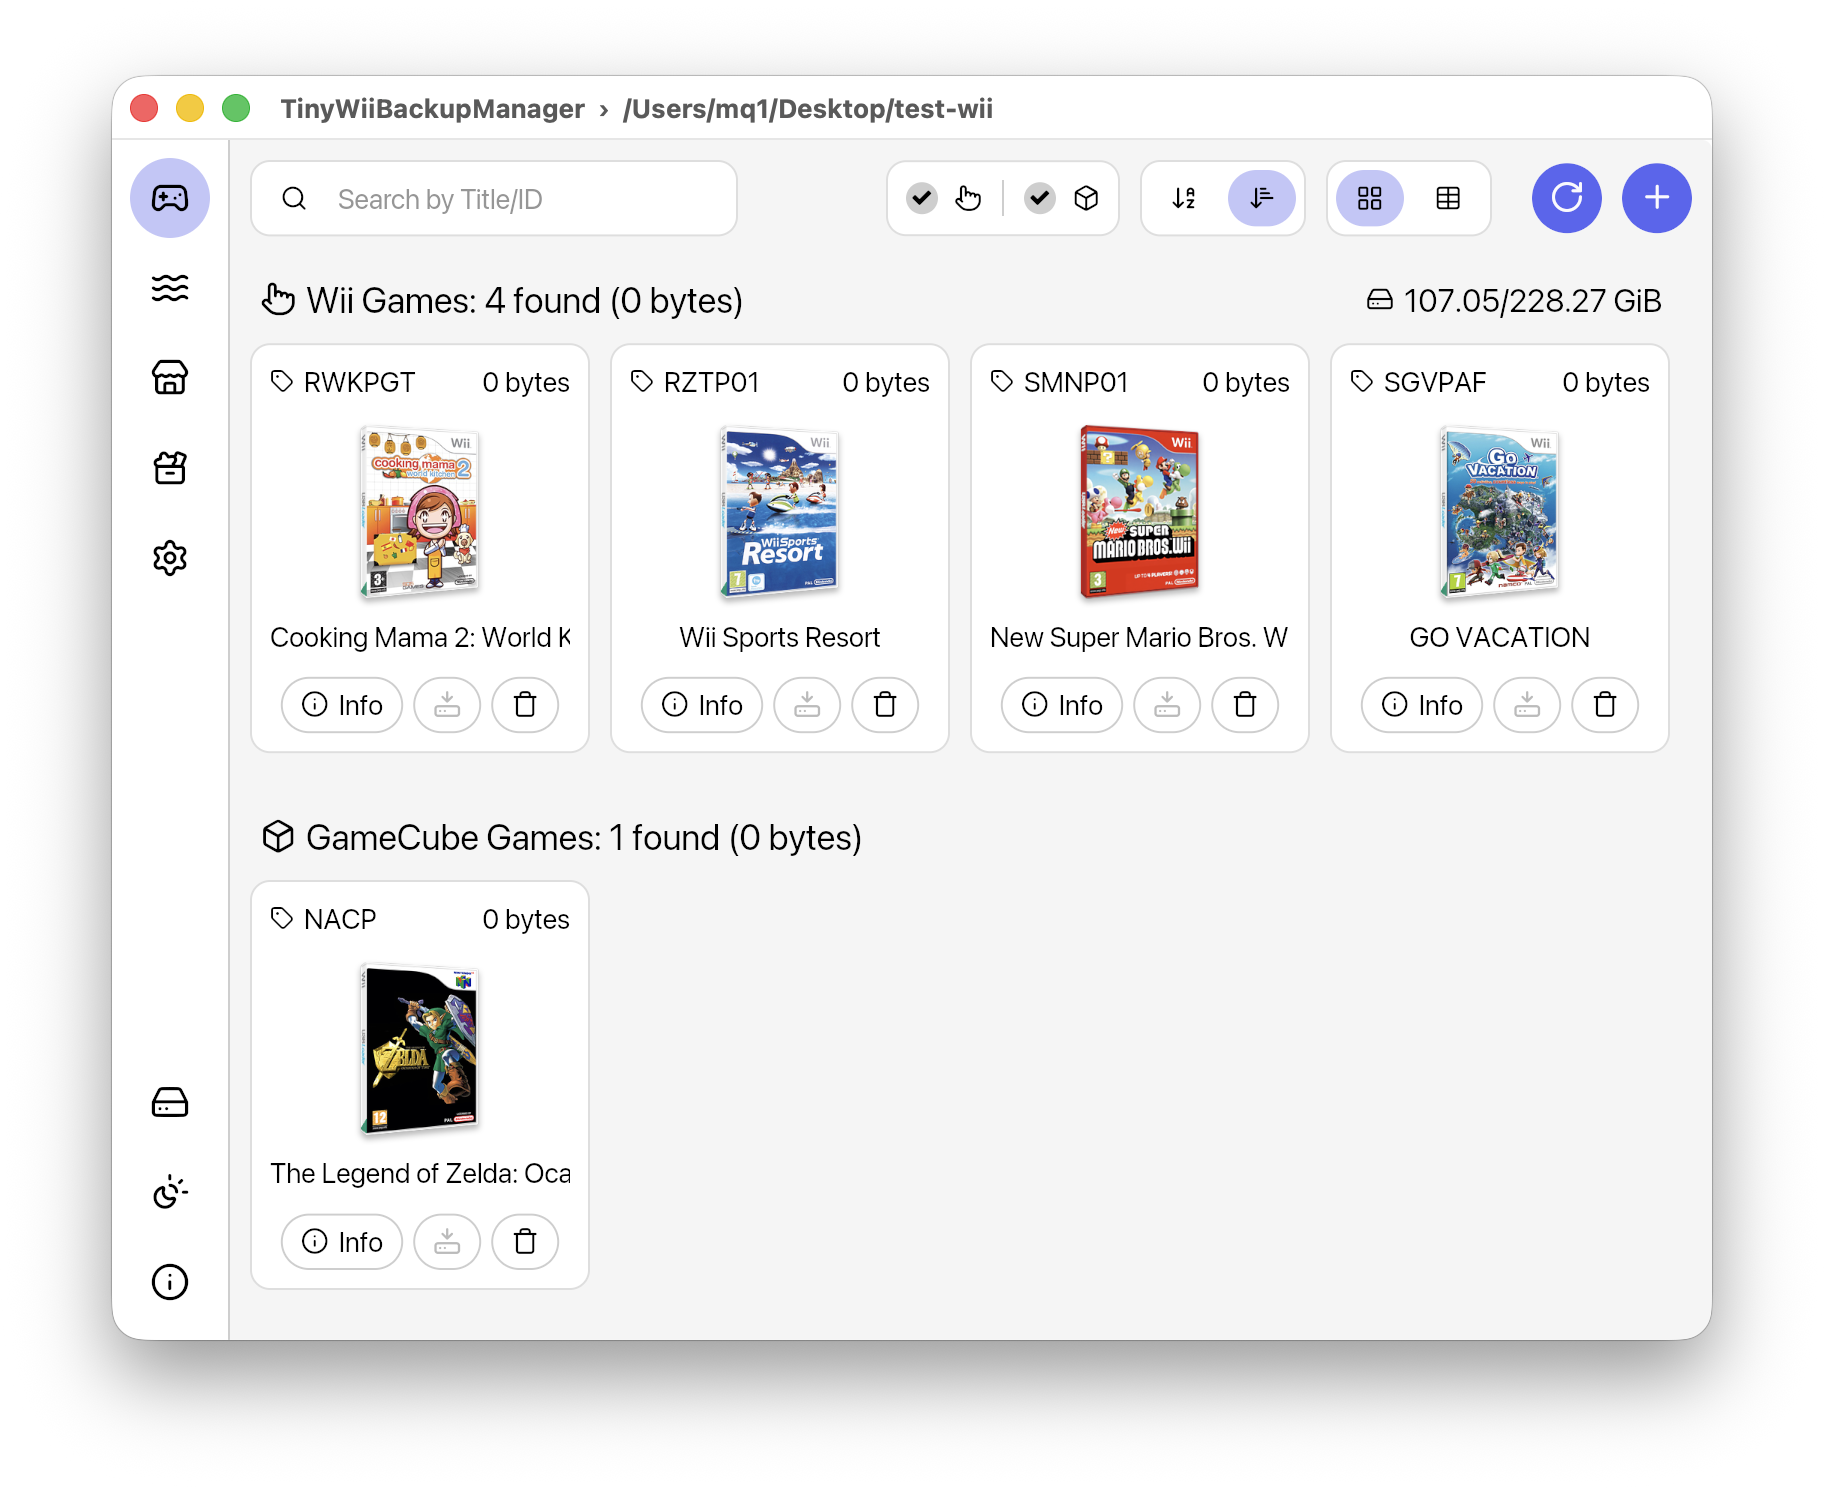
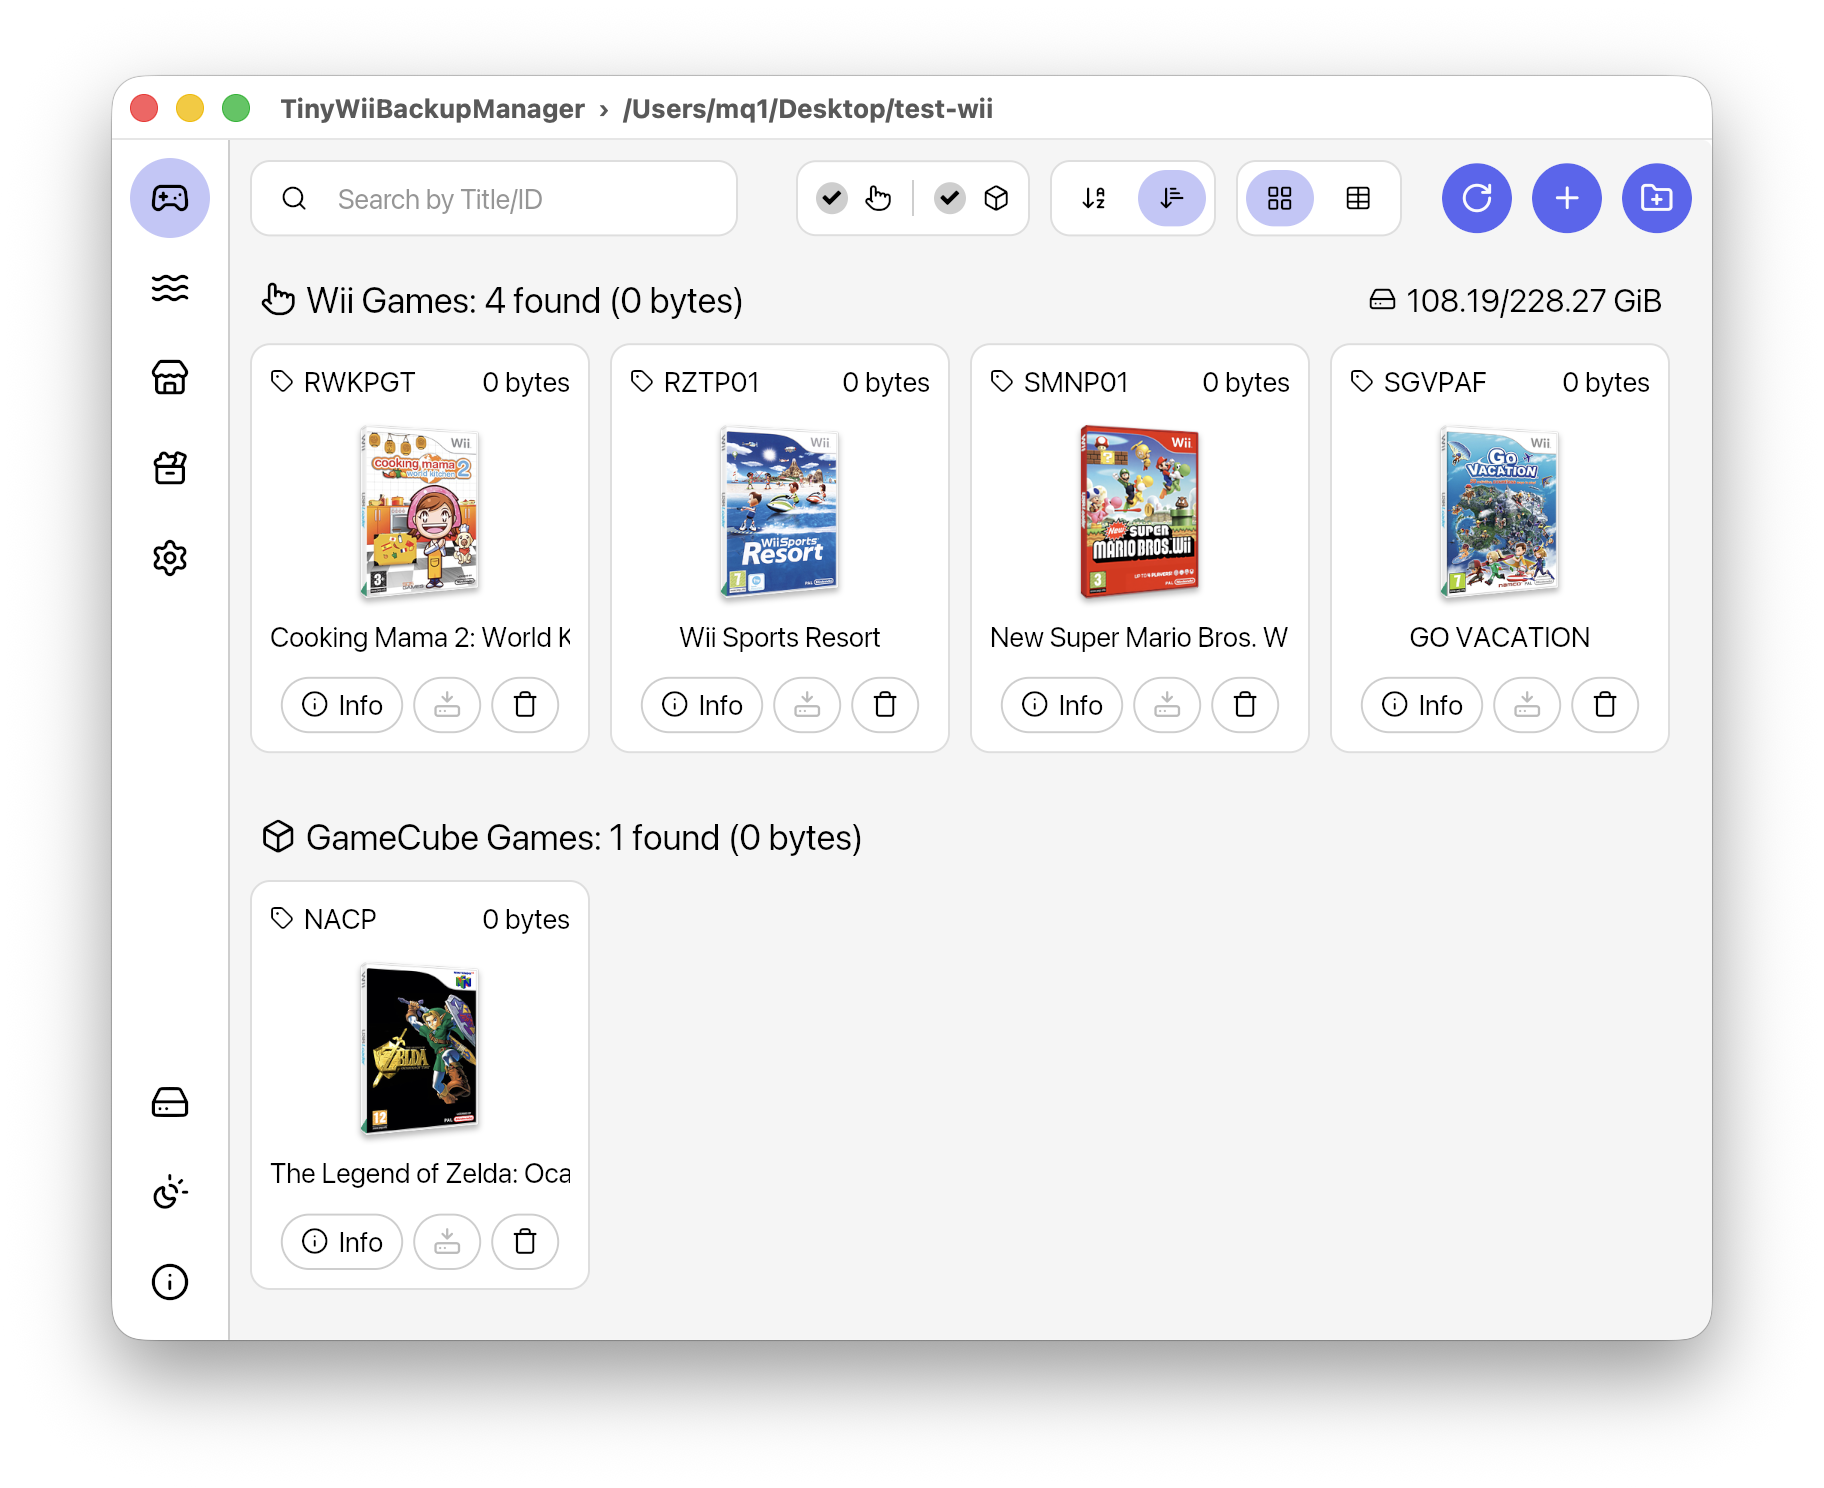
feat: add recursive game adding

Changed region(s): [[0.4375, 0.0927, 0.875, 0.1546], [0.75, 0.1855, 0.8125, 0.2164], [0.9062, 0.1237, 0.9375, 0.1546]]

diff --git a/src/ui/components/games_toolbar.rs b/src/ui/components/games_toolbar.rs
@@ -13,7 +13,7 @@ use iced::{
     Alignment, Element, Font,
     widget::{button, checkbox, container, row, rule, space, text_input},
 };
-use lucide_icons::iced::{icon_plus, icon_rotate_cw, icon_search};
+use lucide_icons::iced::{icon_folder_plus, icon_plus, icon_rotate_cw, icon_search};
 
 pub fn view(state: &State) -> Element<'_, Message> {
     row![
@@ -63,20 +63,28 @@ pub fn view(state: &State) -> Element<'_, Message> {
         components::view_as::view(state),
         space(),
         my_tooltip::view(
-            button(icon_rotate_cw().size(18).center())
+            button(icon_rotate_cw().size(17).center())
                 .width(35)
                 .height(35)
                 .style(style::rounded_button)
                 .on_press(Message::RefreshGamesAndApps),
-            "Refresh Games"
+            "Refresh games"
         ),
         my_tooltip::view(
-            button(icon_plus().size(18).center())
+            button(icon_plus().size(17).center())
                 .width(35)
                 .height(35)
                 .style(style::rounded_button)
                 .on_press(Message::ChooseGamesToAdd),
-            "Add Games"
+            "Add games"
+        ),
+        my_tooltip::view(
+            button(icon_folder_plus().size(17).center())
+                .width(35)
+                .height(35)
+                .style(style::rounded_button)
+                .on_press(Message::ChooseGamesSrcDir),
+            "Add games recursively"
         )
     ]
     .spacing(10)

diff --git a/src/ui/dialogs.rs b/src/ui/dialogs.rs
@@ -37,13 +37,18 @@ pub fn choose_games(window: &dyn Window) -> Vec<PathBuf> {
     })
 }
 
-pub fn choose_src_dir(window: &dyn Window) -> Option<PathBuf> {
-    DialogBuilder::file()
+pub fn choose_src_dir(window: &dyn Window) -> Vec<PathBuf> {
+    let dir = DialogBuilder::file()
         .set_title("Select a folder containing games")
         .set_owner(&window)
         .open_single_dir()
         .show()
-        .unwrap_or_default()
+        .unwrap_or_default();
+
+    match dir {
+        Some(dir) => smol::block_on(util::scan_for_discs(dir)).unwrap_or_default(),
+        None => Vec::new(),
+    }
 }
 
 pub fn choose_hbc_apps(window: &dyn Window) -> Box<[PathBuf]> {

diff --git a/src/state.rs b/src/state.rs
@@ -456,6 +456,9 @@ impl State {
             Message::ChooseGamesToAdd => window::oldest()
                 .and_then(|id| window::run(id, dialogs::choose_games))
                 .map(Message::AddGamesToTransferStack),
+            Message::ChooseGamesSrcDir => window::oldest()
+                .and_then(|id| window::run(id, dialogs::choose_src_dir))
+                .map(Message::AddGamesToTransferStack),
             Message::AddGamesToTransferStack(mut paths) => {
                 if !paths.is_empty() {
                     let empty = self.transfer_stack.is_empty();

diff --git a/src/util.rs b/src/util.rs
@@ -135,7 +135,7 @@ pub async fn run_dot_clean(mount_point: PathBuf) -> Result<()> {
     }
 }
 
-pub async fn scan_for_discs(path: PathBuf) -> io::Result<Box<[PathBuf]>> {
+pub async fn scan_for_discs(path: PathBuf) -> io::Result<Vec<PathBuf>> {
     let mut discs = Vec::new();
     let mut stack = vec![path];
 

diff --git a/src/message.rs b/src/message.rs
@@ -44,6 +44,7 @@ pub enum Message {
     OpenGameDir(usize),
     OpenGameTdb(usize),
     ChooseGamesToAdd,
+    ChooseGamesSrcDir,
     AddGamesToTransferStack(Vec<PathBuf>),
     StartSingleGameTransfer,
     FinishedTransferringSingleGame(Result<String, String>),
